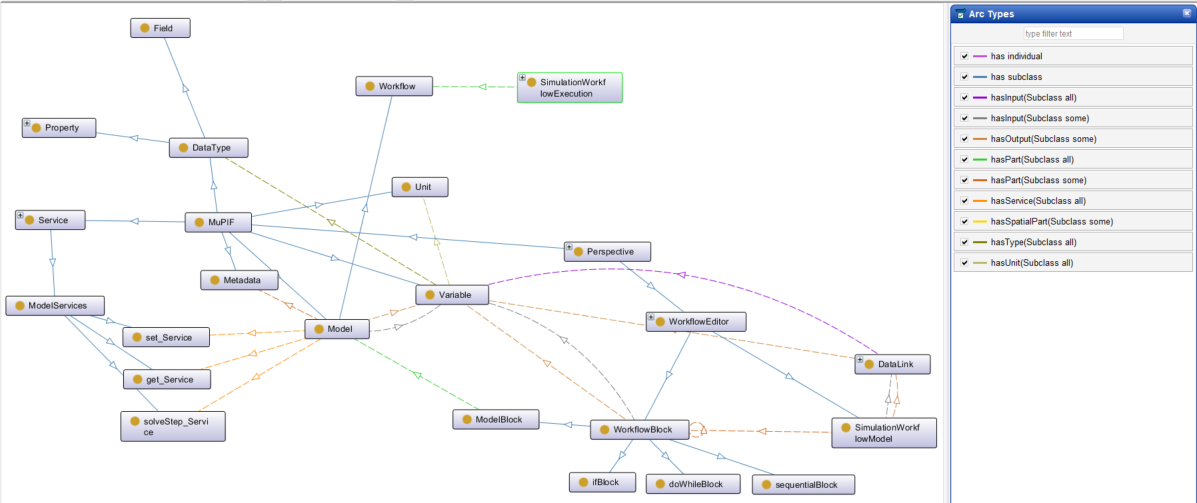
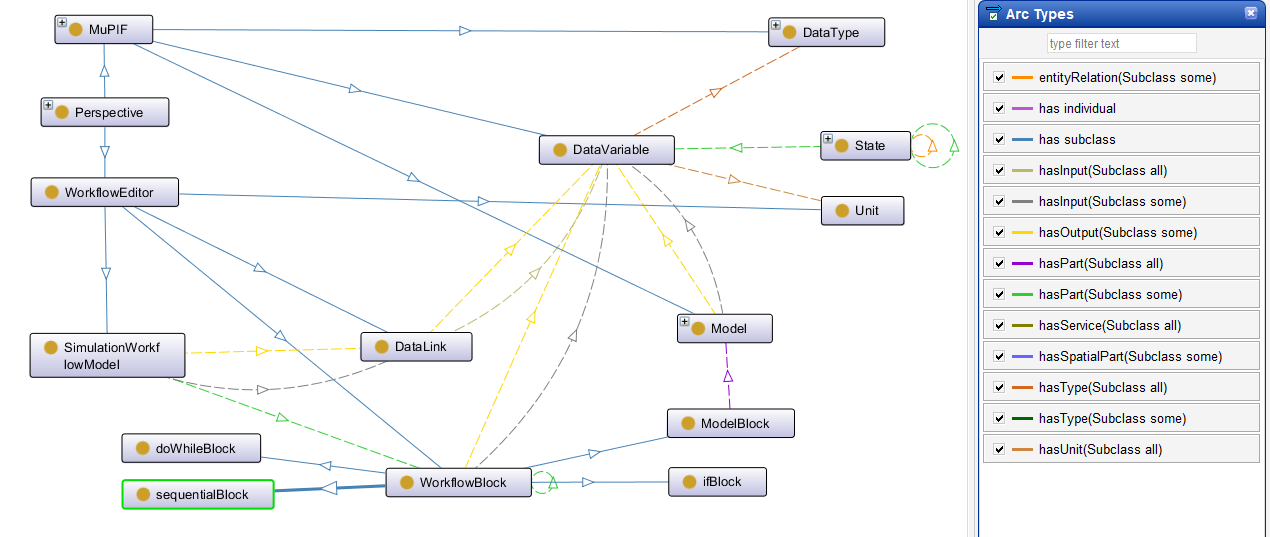
Updated doc prior to new ontology version

diff --git a/README.md b/README.md
@@ -7,7 +7,7 @@ In order to be able to view and navigate the MuPIF ontology we recommend to down
 MuPIF core perspective provides an ontological model of MuPIF. The fundamental MuPIF entities are
 * Model - representing the (mathematical) description of a system or process. Model has input and output variables and services that allow to manipulate the model state and steer it.
 * Workflow - representing a (complex) simulation build from individual models. Workflow itself is a model, allowing it to be used inside other (more complex) workflows. 
-* Variables - represent variables of given type, with defined physical meaning and units.
+* DataVariables - represent variables of given type (DataType), with defined physical meaning and units.
 * DataType - represent data type supported by the platform. All the data exchange within the platform (and within workflows) is performed using variables with DataType type.
 * Service - represent (standardized) service provided by MuPIF entities, such as Models, Workflows and individual DataType instances. 
 * Metadata - represent metadata describing individual entities. Metadata structure is defined by metadata schema, allowing for validation. 
@@ -24,7 +24,7 @@ MuPIF comes with a Data Management System (DMS) called MuPIFDB. The DMS is used 
 This perspective contains the ontological description of concepts used in MuPIF Workflow editor. The Workflow editor is a graphical tool, which allows users to compose workflow from basic building blocks, while connecting their IO ports. The core entities are following:
 * WorkflowBlock - top level class representing generic building block, each block has its input and output slots (with defined physical meaning). Derived entities are, for example:
   * SequentialBlock - representing (sequential) sequence of nested blocks
-  * ModelBlock - representing single model execution, the inputs and outputs slots corresponds to Model IO variables
+  * ModelBlock - representing single model execution, the inputs and outputs slots correspond to DataVariables.
   * DoWhileBlock - represent do while control structure, with condition and execution block to be evaluated while condition holds.
 * DataLink - representing a connection between a single source (input)  slot of WokflowBlock and multiple destination (output) slots. DataLink should connect slots of the same type
 
